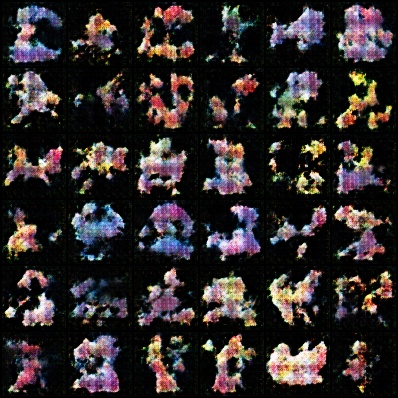
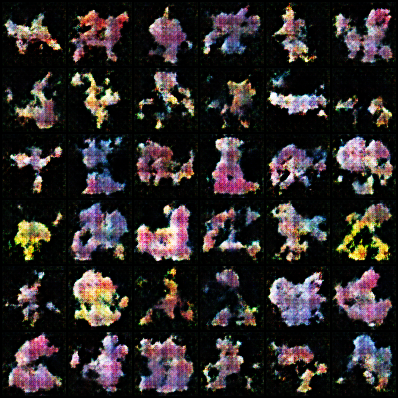
result

diff --git a/poke-c-dcgan/generate.py b/poke-c-dcgan/generate.py
@@ -47,12 +47,12 @@ onehot = onehot.scatter_(1, torch.LongTensor([i for i in range(params['vocab_siz
 
 fixed_noise = torch.randn(36, params['nz'], 1, 1, device=device)
 #Contructing fixed conditions
-frow1 = torch.cat((torch.ones(6, 1)*tp2ind['fire'], torch.ones(6, 1)*tp2ind['<UNK>']), dim=1)
-frow2 = torch.cat((torch.ones(6, 1)*tp2ind['flying'], torch.ones(6, 1)*tp2ind['<UNK>']), dim=1)
-frow3 = torch.cat((torch.ones(6, 1)*tp2ind['grass'], torch.ones(6, 1)*tp2ind['<UNK>']), dim=1)
+frow1 = torch.cat((torch.ones(6, 1)*tp2ind['fire'], torch.ones(6, 1)*tp2ind['flying']), dim=1)
+frow2 = torch.cat((torch.ones(6, 1)*tp2ind['dark'], torch.ones(6, 1)*tp2ind['<UNK>']), dim=1)
+frow3 = torch.cat((torch.ones(6, 1)*tp2ind['grass'], torch.ones(6, 1)*tp2ind['poison']), dim=1)
 frow4 = torch.cat((torch.ones(6, 1)*tp2ind['water'], torch.ones(6, 1)*tp2ind['<UNK>']), dim=1)
-frow5 = torch.cat((torch.ones(6, 1)*tp2ind['dragon'], torch.ones(6, 1)*tp2ind['<UNK>']), dim=1)
-frow6 = torch.cat((torch.ones(6, 1)*tp2ind['bug'], torch.ones(6, 1)*tp2ind['<UNK>']), dim=1)
+frow5 = torch.cat((torch.ones(6, 1)*tp2ind['dragon'], torch.ones(6, 1)*tp2ind['flying']), dim=1)
+frow6 = torch.cat((torch.ones(6, 1)*tp2ind['bug'], torch.ones(6, 1)*tp2ind['poison']), dim=1)
 fixed_condition = torch.cat((frow1, frow2, frow3, frow4, frow5,
                                 frow6), dim=0).type(torch.LongTensor)
 
